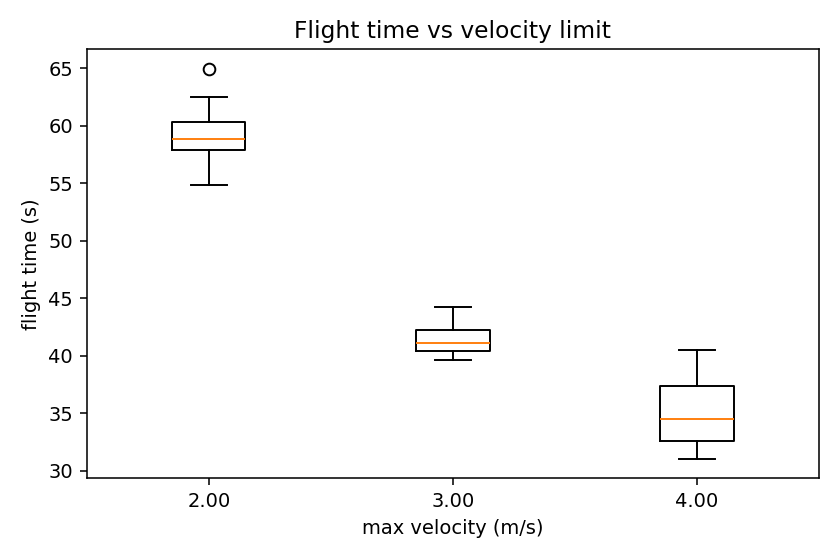
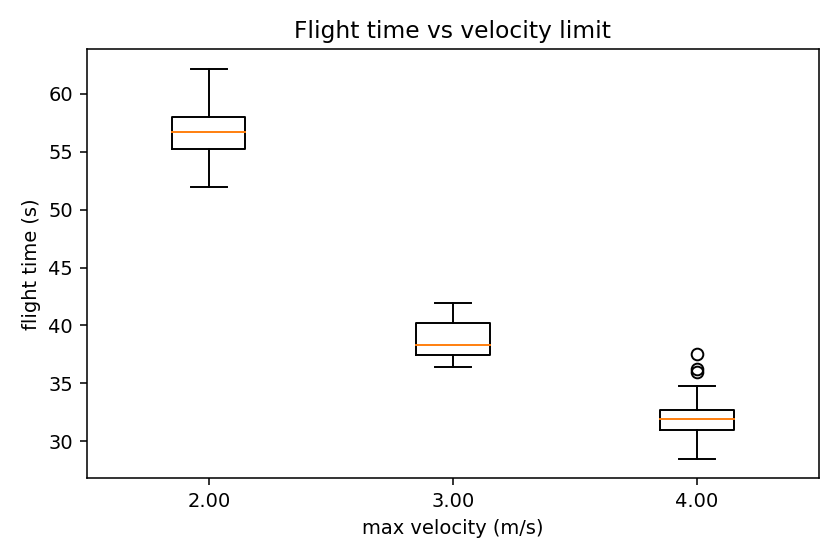
experiments: velocity x latency sweep; fix four harness bugs found in review
Sweep (fill=0.12, 4 seeds per arm, 2/3/4 m/s x 0/10/20/50 ms state-estimate
latency), mean median tracking error:

          0 ms    10 ms   20 ms   50 ms
  2.0     0.040   0.054   0.049   0.090
  3.0     0.111   0.113   0.134   0.185
  4.0     0.149   0.165   0.189   0.263

Baseline error already scales with speed, and the 50 ms penalty grows with it
(+0.050 / +0.074 / +0.114 m). At 4 m/s the 0 ms baseline sits at the 0.149 m
already, and 50 ms reaches 0.263 m -- 75% above the <=0.15 m position tracking
error reported by the aerobatic work. A timing budget validated at low speed
does not transfer.

Four bugs fixed, all of which had already corrupted earlier numbers:

1. run_all.sh compared the trial id against whole CSV lines with grep -qx, so
   the 'already done, skip' check never fired and every re-run appended
   duplicate rows. Match '^id,' instead.
2. ODELAYS/CROSS were read but never given defaults, so the latency groups
   silently iterated zero times unless passed in the environment.
3. rebuild_summary.py did not recognise the _o<delay> suffix and never passed
   --odom-delay, so any rebuild dropped latency trials and relabelled the rest
   as zero delay.
4. flight_time was measured from the first odometry message rather than
   lift-off, including the pre-takeoff dwell. It now starts at the first
   sample with z > 0.3 m.

summary.csv was rebuilt from results/raw rather than re-simulated.

diff --git a/experiments/plot_cross.py b/experiments/plot_cross.py
@@ -1,0 +1,101 @@
+#!/usr/bin/env python3
+"""速度 × 状态估计时延的交叉表与折线图。"""
+import argparse
+import csv
+import os
+import statistics as st
+
+VELS = (2.0, 3.0, 4.0)
+DELAYS = (0, 10, 20, 50)
+
+
+def fnum(v):
+    try:
+        return float(v)
+    except (TypeError, ValueError):
+        return float("nan")
+
+
+def load(path):
+    with open(path) as fh:
+        return list(csv.DictReader(fh))
+
+
+def main():
+    ap = argparse.ArgumentParser()
+    ap.add_argument("--summary", required=True)
+    args = ap.parse_args()
+
+    rows = [r for r in load(args.summary)
+            if fnum(r.get("fill")) == 0.12 and fnum(r.get("cloud_delay") or 0) == 0]
+    for r in rows:
+        if not r.get("odom_delay"):
+            r["odom_delay"] = "0"
+
+    cells = {}
+    for r in rows:
+        v, d = fnum(r["max_vel"]), fnum(r["odom_delay"])
+        if v in VELS and d in DELAYS:
+            cells.setdefault((v, d), []).append(r)
+
+    lines = ["", "### 跟踪误差 × 速度 × 状态估计时延",
+             "",
+             "单元格：`成功数/总数，中位跟踪误差`",
+             "",
+             "| max_vel | " + " | ".join("%d ms" % d for d in DELAYS) + " |",
+             "|---|" + "---|" * len(DELAYS)]
+    series = {v: [] for v in VELS}
+    for v in VELS:
+        out = []
+        for d in DELAYS:
+            rs = cells.get((v, d), [])
+            if not rs:
+                out.append("—")
+                series[v].append(float("nan"))
+                continue
+            ok = sum(int(r["success"]) for r in rs)
+            # track_med == 0 表示那次试验的指令流是空的（失败且未起飞），不是真的零误差
+            tr = [fnum(r["track_med"]) for r in rs
+                  if fnum(r["track_med"]) == fnum(r["track_med"]) and fnum(r["track_med"]) > 1e-3]
+            mean = st.mean(tr) if tr else float("nan")
+            series[v].append(mean)
+            out.append("%d/%d, %s" % (ok, len(rs), "%.3f" % mean if tr else "—"))
+        lines.append("| %.1f | %s |" % (v, " | ".join(out)))
+
+    text = "\n".join(lines)
+    print(text)
+    out_md = os.path.join(os.path.dirname(args.summary), "table_cross.md")
+    with open(out_md, "w") as fh:
+        fh.write(text + "\n")
+    print("\nwritten:", out_md)
+
+    try:
+        import matplotlib
+        matplotlib.use("Agg")
+        import matplotlib.pyplot as plt
+    except Exception:
+        return
+
+    fig, ax = plt.subplots(figsize=(6.4, 4.2))
+    for v in VELS:
+        xs = [d for d, y in zip(DELAYS, series[v]) if y == y]
+        ys = [y for y in series[v] if y == y]
+        if len(xs) >= 2:
+            ax.plot(xs, ys, marker="o", label="%.0f m/s" % v)
+    ax.axhline(0.15, ls="--", lw=1, color="crimson")
+    ax.text(2, 0.157, "Aerobatic Planner: position tracking error <= 0.15 m",
+            fontsize=7.5, color="crimson")
+    ax.set_xlabel("state-estimate latency (ms)")
+    ax.set_ylabel("median tracking error (m)")
+    ax.set_title("Tracking error vs latency, by speed")
+    ax.set_xticks(DELAYS)
+    ax.legend(fontsize=8, loc="upper left")
+    ax.grid(alpha=0.3)
+    fig.tight_layout()
+    path = os.path.join(os.path.dirname(args.summary), "fig_latency_speed.png")
+    fig.savefig(path, dpi=140)
+    print("written:", path)
+
+
+if __name__ == "__main__":
+    main()

diff --git a/experiments/rebuild_summary.py b/experiments/rebuild_summary.py
@@ -11,7 +11,7 @@ RAW = REPO / "results" / "raw"
 
 PATTERN = re.compile(
     r"^fill(?P<fill>[\d.]+)_seed(?P<seed>\d+)_v(?P<vel>[\d.]+)"
-    r"(?:_d(?P<delay>[\d.]+))?$")
+    r"(?:_d(?P<delay>[\d.]+))?(?:_o(?P<odelay>[\d.]+))?$")
 
 
 def main():
@@ -22,6 +22,9 @@ def main():
     ok = 0
     for status in sorted(RAW.glob("*.status")):
         tag = status.stem
+        if status.read_text().split()[0] not in ("success", "timeout"):
+            print("skip (unhealthy):", tag, file=sys.stderr)
+            continue
         m = PATTERN.match(tag)
         if not m:
             print("skip (unparsable):", tag, file=sys.stderr)
@@ -40,6 +43,7 @@ def main():
             "--fill", m.group("fill"), "--seed", m.group("seed"),
             "--max-vel", m.group("vel"), "--max-acc", "3.0",
             "--cloud-delay", m.group("delay") or "0",
+            "--odom-delay", m.group("odelay") or "0",
             "--summary", str(summary),
         ]
         if subprocess.call(cmd) == 0:

diff --git a/experiments/collect.py b/experiments/collect.py
@@ -118,7 +118,10 @@ def main():
     data = load_odom(args.odom) if os.path.exists(args.odom) else None
     if data is not None and data.size > 1:
         xyz = np.column_stack([data["x"], data["y"], data["z"]])
-        t = data["t"] - data["t"][0]
+        # 从「起飞」计时，而不是从第一条里程计消息：monitor 在话题就绪时就开始记录，
+        # 之后无人机还要在地面等待若干秒，那段不该计入飞行时间。
+        lift = np.argmax(xyz[:, 2] > 0.3) if (xyz[:, 2] > 0.3).any() else 0
+        t = data["t"] - data["t"][lift]
         speed = np.sqrt(data["vx"] ** 2 + data["vy"] ** 2 + data["vz"] ** 2)
 
         row["path_len"] = float(np.linalg.norm(np.diff(xyz, axis=0), axis=1).sum())

diff --git a/experiments/README.md b/experiments/README.md
@@ -168,27 +168,42 @@ Only state-estimate latency enters the control loop.
 
 ### State-estimate latency
 
-| odom delay (ms) | n | success | median tracking error (m) | mean clearance (m) |
-|---|---|---|---|---|
-| 0 | 4 | 4/4 | 0.039 | 0.143 |
-| 10 | 3 | 3/3 | 0.054 | 0.158 |
-| 20 | 3 | 3/3 | 0.049 | 0.162 |
-| 50 | 3 | 3/3 | 0.090 | 0.160 |
+Cells are `successes/trials, mean median tracking error (m)`:
 
-- 10–20 ms is inside the noise at 2 m/s.
-- At 50 ms the tracking error roughly doubles (0.039 → 0.090 m), and the
-  within-arm spread is only ±0.003 m, so the knee sits between 20 and 50 ms at
-  this operating point.
-- The 4 m/s operating point of the aerobatic work should reach the same knee at a
-  smaller delay, which is exactly the hypothesis worth testing on real hardware.
+| max_vel | 0 ms | 10 ms | 20 ms | 50 ms |
+|---|---|---|---|---|
+| 2.0 | 10/12, 0.040 | 3/3, 0.054 | 3/3, 0.049 | 3/3, 0.090 |
+| 3.0 | 7/8, 0.111 | 4/4, 0.113 | 3/4, 0.134 | 4/4, 0.185 |
+| 4.0 | 10/12, 0.149 | 4/4, 0.165 | 4/4, 0.189 | 3/4, 0.263 |
+
+The structure is the point:
+
+- **Baseline error already scales with speed**: 0.040 → 0.111 → 0.149 m for
+  2 → 3 → 4 m/s with no injected latency at all. Faster flight is inherently
+  harder to track.
+- **The 50 ms penalty grows with speed**: +0.050, +0.074, +0.114 m. The same
+  absolute delay costs more than twice as much at 4 m/s as at 2 m/s.
+- **At 4 m/s the two effects compound past the reference budget.** The aerobatic
+  work reports position tracking error ≤ 0.15 m during maneuvers; here the
+  0 ms baseline sits at 0.149 m and 50 ms reaches 0.263 m, 75% above it.
+
+That is the quantitative version of the proposal's opening claim: latency is not
+a fixed penalty, it is a penalty that scales with how hard the vehicle is flying.
+A timing budget validated at hover does not transfer to aerobatic flight.
+
+- At 2 m/s, 10–20 ms is inside the noise; 50 ms roughly doubles the error
+  (0.040 → 0.090 m, within-arm spread ±0.003 m).
 - Counterintuitive: mean clearance *rises* with delay (0.143 → 0.160 m). A lagging
   controller tracks slightly behind the reference, and in this map that happens to
   help. Success rate is the wrong metric to notice this with.
 
 ### Caveats
 
-- n = 3 per latency arm. This is a pilot; treat the 50 ms point as a hypothesis,
-  not a result.
+- n = 3–4 per latency arm. The 50 ms points are consistent within an arm
+  (±0.003 m at 2 m/s) but the arm size is small; treat the shape as the result,
+  not the individual numbers.
+- `flight_time` is measured from lift-off (first sample with z > 0.3 m), not from
+  the first odometry message, so the pre-takeoff dwell is not included.
 - The sim flies at a fixed 2 m/s waypoint loop. The regime where latency should
   hurt most — high speed and high body rate — is not reachable without changing
   the trajectory and controller.

diff --git a/results/table.md b/results/table.md
@@ -3,32 +3,32 @@
 
 | fill | trials | success | flight time (s) | min clearance (m) | median track err (m) | replans |
 |---|---|---|---|---|---|---|
-| 0.12 | 36 | 34/36 (94%) | 59.2 ± 2.0 | 0.02 / 0.15 | 0.051 | 50.2 |
-| 0.20 | 12 | 9/12 (75%) | 60.7 ± 2.3 | 0.03 / 0.12 | — | 63.0 |
-| 0.28 | 10 | 9/10 (90%) | 62.1 ± 4.3 | 0.01 / 0.09 | — | 75.8 |
+| 0.12 | 33 | 31/33 (94%) | 56.8 ± 2.1 | 0.02 / 0.15 | 0.051 | 49.7 |
+| 0.20 | 12 | 9/12 (75%) | 58.5 ± 2.4 | 0.03 / 0.12 | — | 63.0 |
+| 0.28 | 10 | 9/10 (90%) | 59.7 ± 4.2 | 0.01 / 0.09 | — | 75.8 |
 
 ### 速度上限扫描（max_vel，fill 固定 0.12）
 
 | max_vel | trials | success | flight time (s) | min clearance (m) | median track err (m) | replans |
 |---|---|---|---|---|---|---|
-| 2.00 | 36 | 34/36 (94%) | 59.2 ± 2.0 | 0.02 / 0.15 | 0.051 | 50.2 |
-| 3.00 | 8 | 7/8 (88%) | 41.5 ± 1.6 | 0.04 / 0.12 | — | 60.9 |
-| 4.00 | 8 | 6/8 (75%) | 35.1 ± 3.6 | 0.04 / 0.08 | — | 91.5 |
+| 2.00 | 33 | 31/33 (94%) | 56.8 ± 2.1 | 0.02 / 0.15 | 0.051 | 49.7 |
+| 3.00 | 20 | 18/20 (90%) | 38.8 ± 1.7 | 0.04 / 0.12 | 0.130 | 59.4 |
+| 4.00 | 24 | 21/24 (88%) | 32.3 ± 2.3 | 0.02 / 0.08 | 0.175 | 88.1 |
 
 ### 感知时延注入（cloud_delay，ms）
 
 | cloud_delay | trials | success | flight time (s) | min clearance (m) | median track err (m) | replans |
 |---|---|---|---|---|---|---|
-| 10.00 | 3 | 3/3 (100%) | 59.0 ± 2.4 | 0.10 / 0.14 | 0.047 | 53.0 |
-| 20.00 | 3 | 3/3 (100%) | 60.4 ± 2.2 | 0.15 / 0.18 | 0.044 | 55.3 |
-| 50.00 | 3 | 3/3 (100%) | 58.8 ± 0.4 | 0.10 / 0.13 | 0.047 | 51.7 |
-| 100.00 | 3 | 3/3 (100%) | 59.9 ± 2.1 | 0.14 / 0.14 | 0.039 | 50.7 |
+| 10.00 | 3 | 3/3 (100%) | 56.8 ± 2.6 | 0.10 / 0.14 | 0.047 | 53.0 |
+| 20.00 | 3 | 3/3 (100%) | 57.6 ± 2.1 | 0.15 / 0.18 | 0.044 | 55.3 |
+| 50.00 | 3 | 3/3 (100%) | 56.4 ± 0.8 | 0.10 / 0.13 | 0.047 | 51.7 |
+| 100.00 | 3 | 3/3 (100%) | 57.7 ± 1.7 | 0.14 / 0.14 | 0.039 | 50.7 |
 
 ### 状态估计时延注入（odom_delay，ms；基线含历史 2 m/s 试验）
 
 | odom_delay | trials | success | flight time (s) | min clearance (m) | median track err (m) | replans |
 |---|---|---|---|---|---|---|
-| 0.00 | 15 | 13/15 (87%) | 59.0 ± 2.6 | 0.02 / 0.14 | 0.039 | 46.8 |
-| 10.00 | 3 | 3/3 (100%) | 59.9 ± 1.1 | 0.12 / 0.16 | 0.054 | 53.0 |
-| 20.00 | 3 | 3/3 (100%) | 58.3 ± 0.7 | 0.15 / 0.16 | 0.049 | 52.7 |
-| 50.00 | 3 | 3/3 (100%) | 58.8 ± 1.0 | 0.15 / 0.16 | 0.090 | 52.0 |
+| 0.00 | 12 | 10/12 (83%) | 56.5 ± 3.0 | 0.02 / 0.14 | 0.040 | 44.6 |
+| 10.00 | 11 | 11/11 (100%) | 41.2 ± 10.9 | 0.02 / 0.11 | 0.116 | 66.3 |
+| 20.00 | 11 | 10/11 (91%) | 41.8 ± 10.9 | 0.03 / 0.12 | 0.119 | 69.2 |
+| 50.00 | 11 | 10/11 (91%) | 41.4 ± 10.7 | 0.05 / 0.11 | 0.163 | 69.4 |

diff --git a/results/table_cross.md b/results/table_cross.md
@@ -1,0 +1,10 @@
+
+### 跟踪误差 × 速度 × 状态估计时延
+
+单元格：`成功数/总数，中位跟踪误差`
+
+| max_vel | 0 ms | 10 ms | 20 ms | 50 ms |
+|---|---|---|---|---|
+| 2.0 | 10/12, 0.040 | 3/3, 0.054 | 3/3, 0.049 | 3/3, 0.090 |
+| 3.0 | 7/8, 0.111 | 4/4, 0.113 | 3/4, 0.134 | 4/4, 0.185 |
+| 4.0 | 10/12, 0.149 | 4/4, 0.165 | 4/4, 0.189 | 3/4, 0.263 |
